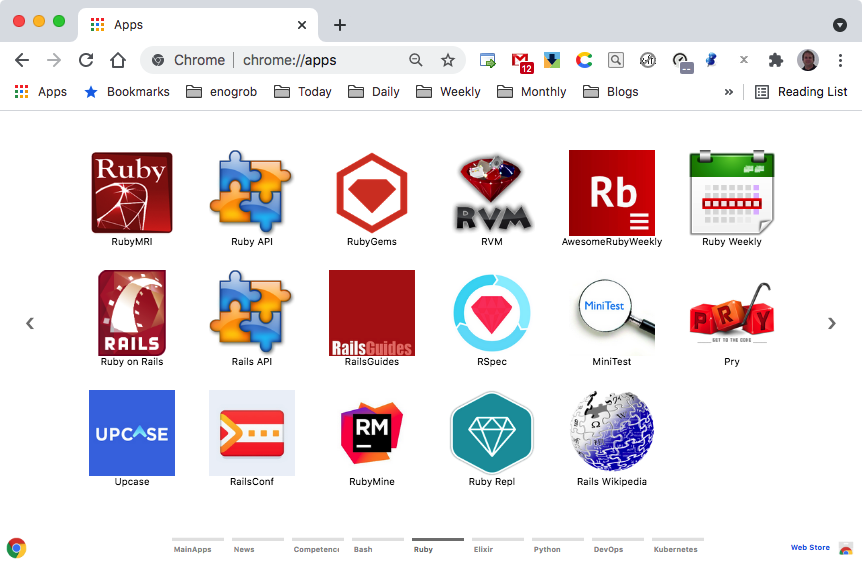
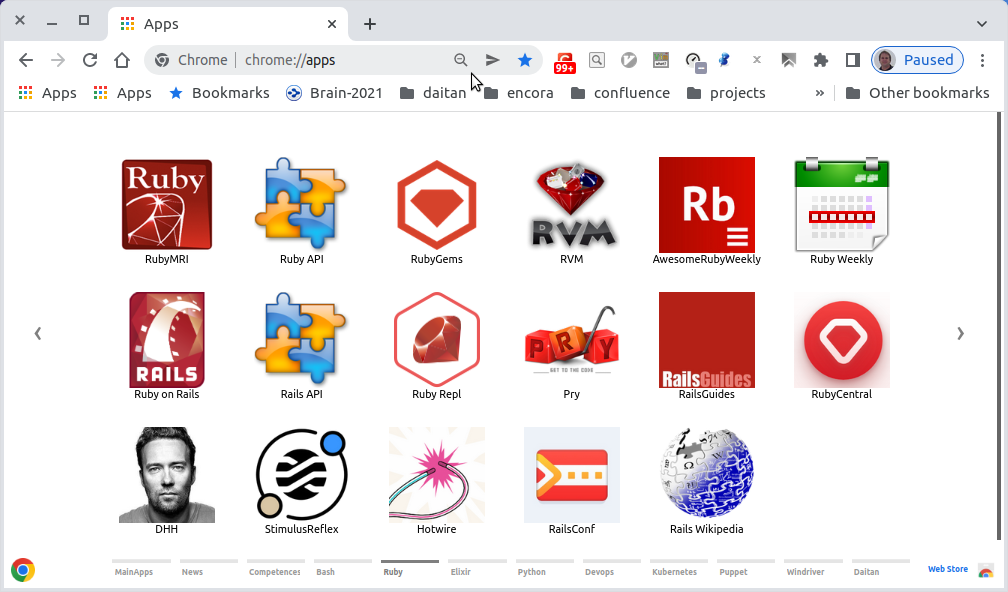
update-apps-and-images

diff --git a/README.md b/README.md
@@ -18,17 +18,17 @@ As we can see a subdirectory is created for each Ruby app.
 
 ```bash
 $ ls -la
-total 984
-drwxr-xr-x@   8 enogrob  staff    272 Oct  3 17:06 .
-drwxr-xr-x@ 297 enogrob  staff  10098 Oct  3 17:06 ..
--rw-r--r--@   1 enogrob  staff   6148 Oct  3 16:58 .DS_Store
--rw-r--r--    1 enogrob  staff      5 May 31  2016 .gitignore
--rw-r--r--@   1 enogrob  staff      0 Nov 17  2016 Icon?
--rw-r--r--@   1 enogrob  staff   1886 Oct  3 17:11 README.md
-drwxr-xr-x   19 enogrob  staff    646 Oct  3 17:08 apps
-drwxr-xr-x    4 enogrob  staff    136 Oct  3 17:09 images
+total 44
+drwxrwxr-x   7 rnogueira rnogueira 4096 mai 26 02:54  .
+drwxrwxr-x 107 rnogueira rnogueira 4096 mai 22 20:33  ..
+drwxrwxr-x  39 rnogueira rnogueira 4096 mai 26 02:54  apps
+:
+drwxrwxr-x   2 rnogueira rnogueira 4096 mai 26 02:48  images
+-rw-rw-r--   1 rnogueira rnogueira 2358 mai 26 02:55  README.md
+drwxrwxr-x   2 rnogueira rnogueira 4096 mai 26 02:45  resources
 
 $ tree -L 1 apps/
+apps
 apps
 ├── Ruby-API
 ├── Ruby-Awesome
@@ -36,6 +36,14 @@ apps
 ├── Ruby-Bundler
 ├── Ruby-Homepage
 ├── Ruby-Pry
+├── Ruby-RailsAPI
+├── Ruby-RailsConf
+├── Ruby-RailsDHH
+├── Ruby-RailsHomepage
+├── Ruby-RailsHotwire
+├── Ruby-RailsRailsGuides
+├── Ruby-RailsStimulusReflex
+├── Ruby-RailsWikipedia
 ├── Ruby-Rubies.io
 ├── Ruby-Rubocop
 ├── Ruby-Ruby3Dev
@@ -60,7 +68,8 @@ apps
 ├── Ruby-VsCodeAwesome
 └── Ruby-WebCrunch
 
-29 directories, 0 files
+37 directories, 0 files
+
 
 # in order to open Files in "Linux" to drag the App folders if wanted.
 $ cd apps
